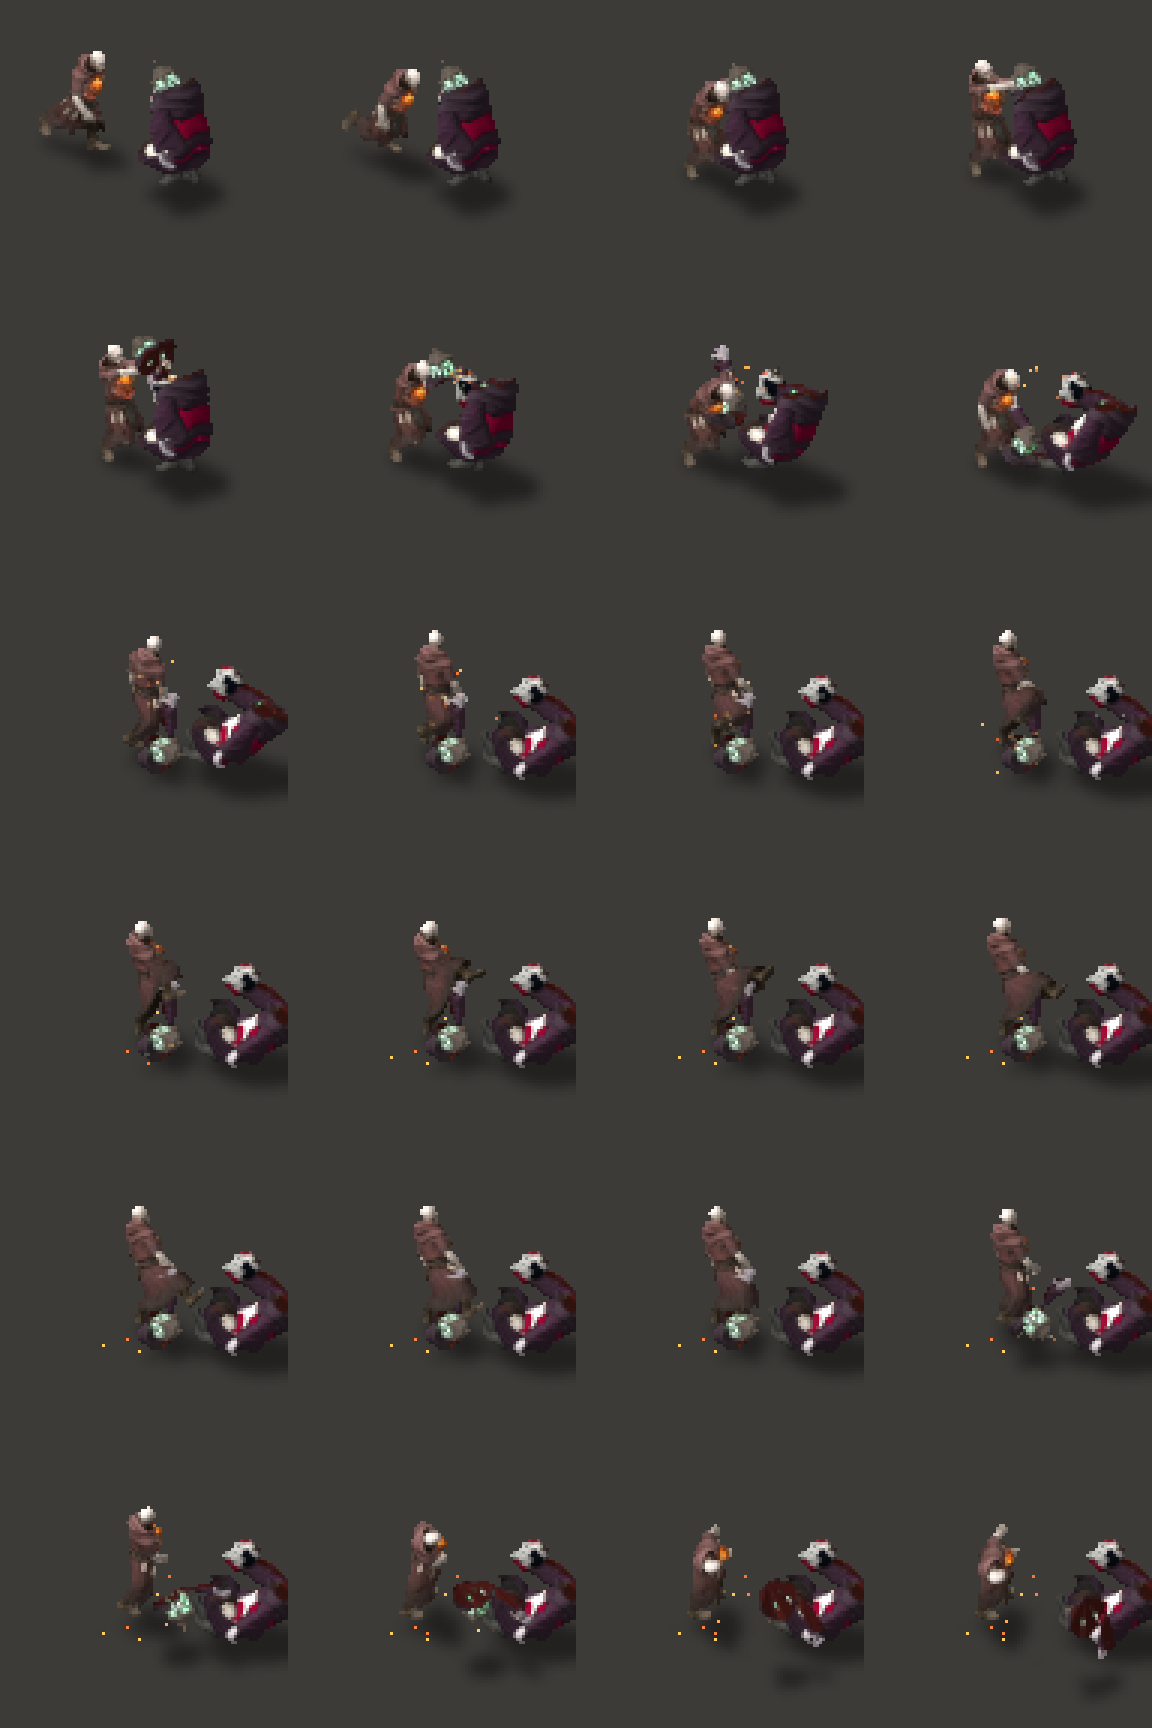
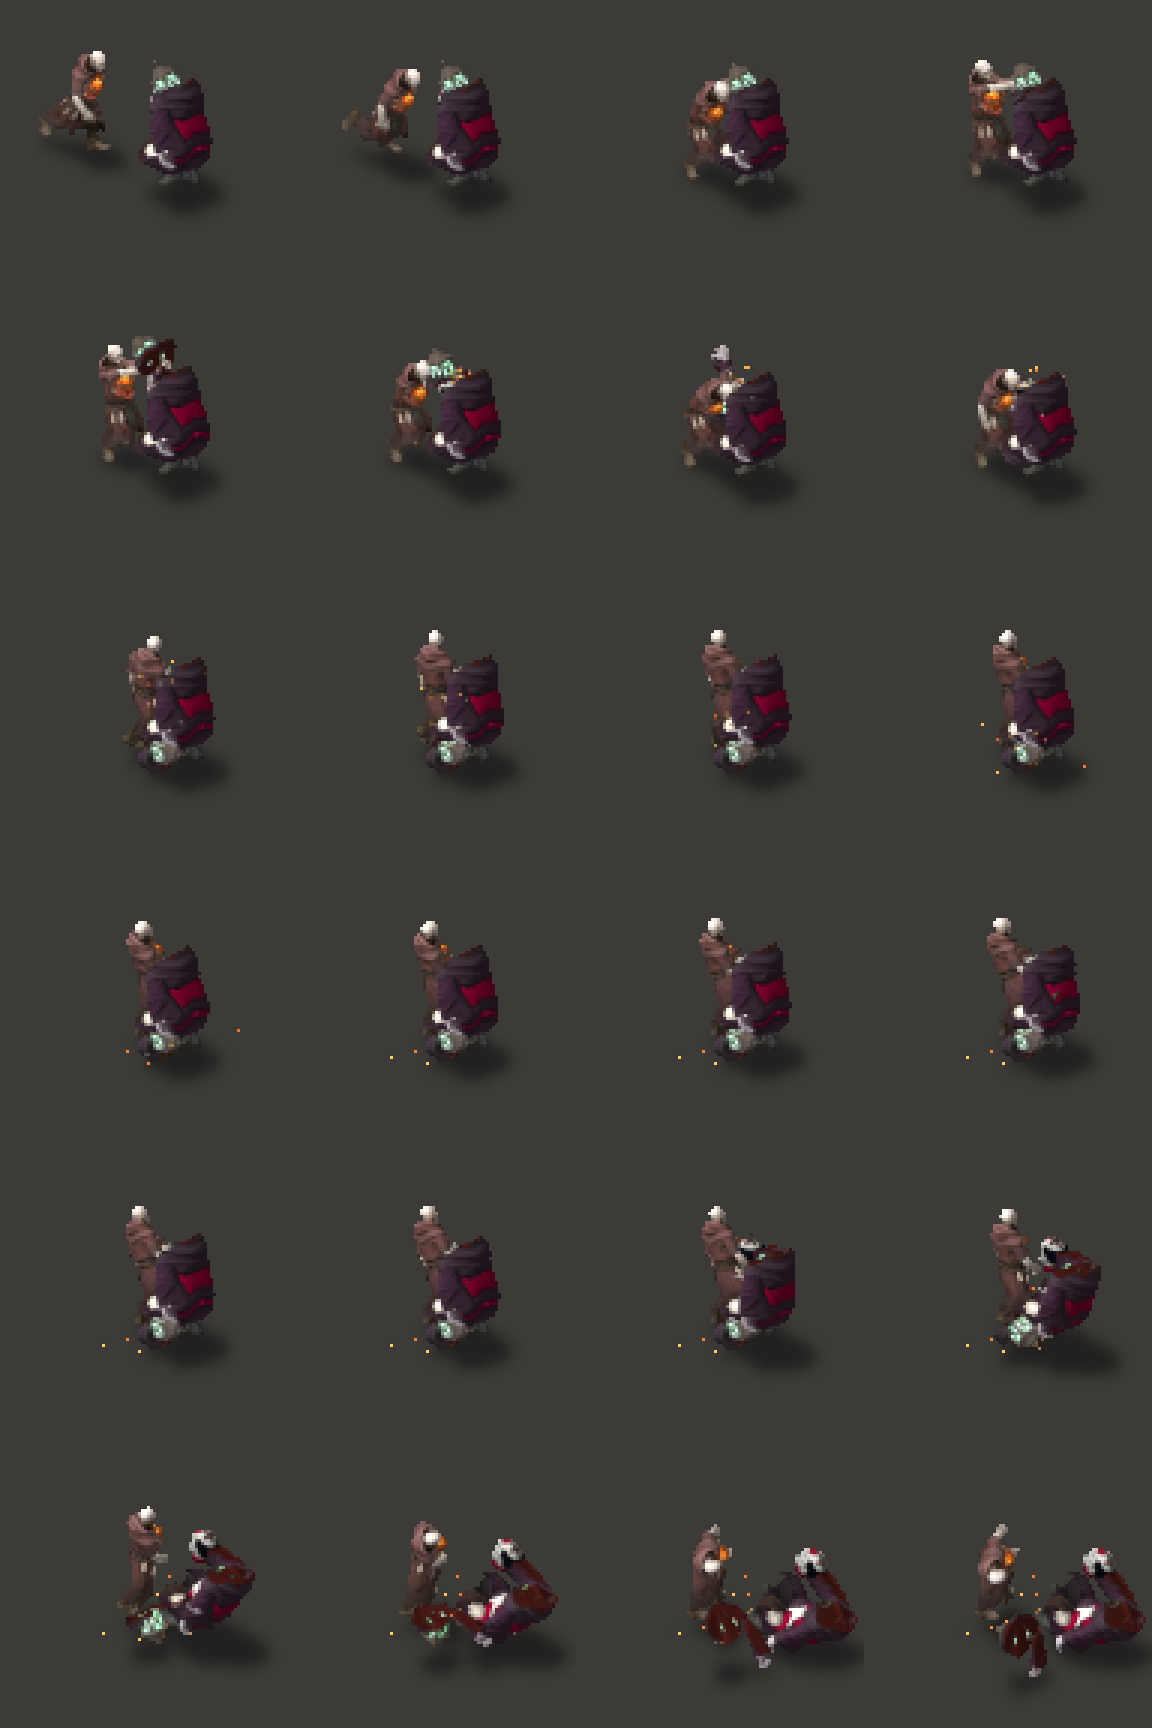
fix(remate): el Ojo aguanta de pie sin farol y cae con la patada
El cuerpo ya no se vuelca en el arranque: se queda de pie, tambaleandose, del fotograma 4 al 17, y se desploma al entrarle el pie en el 18. El farol deja de salir volando: se apoya en el suelo y la patada lo manda a ras hacia el espectador.

diff --git a/tools/characters/ds_remate_ojo.py b/tools/characters/ds_remate_ojo.py
@@ -379,7 +379,7 @@ kick_glass = burst('kickg', 6, LAND + V((0, 0, 0.08)), 2.0, 0.007, 46, MAT_GLASS
 # vuelo del farol: de la mano (fotograma RELEASE_F) al suelo (LAND_F) al punto de contacto
 C0 = LANTERN_C.copy()
 T_FLY = (LAND_F - RELEASE_F) * DT
-V_KICK = V((2.6, -0.5, 1.9))
+V_KICK = V((1.4, -1.6, 0.7))     # la patada lo manda a ras de suelo, hacia el espectador
 
 
 # farol en la mano: (centro de mundo, giro sobre Y en grados)
@@ -427,16 +427,28 @@ def lantern_matrix(i):
     return Matrix.Translation(c) @ rot @ Matrix.Translation(-C0)
 
 
+BODY_FEET = V((OJO_X, OJO_Y, 0.0))
+
+
+def body_sway(i):
+    """Cuerpo sin farol: se tambalea sobre sus pies, cada vez mas, sin caerse."""
+    s = 4.2 * math.sin(2 * math.pi * (i - (RIP_F + 1)) / 5.6)
+    f = 2.0 + 1.6 * math.sin(2 * math.pi * (i - (RIP_F + 1)) / 9.0)
+    return xform_about(BODY_FEET, s, f, 0)
+
+
 def body_matrix(i):
-    """El cuerpo del Ojo se vuelca y se arrastra lejos del farol y de la patada."""
+    """Aguanta de pie (tambaleandose) hasta que llega la patada; entonces se desploma."""
     if i < RIP_F:
         return body_xform(tilt_back=0.0, tilt_side=1.5 if i % 2 else -1.5)
     if i == RIP_F:
-        return body_xform(tilt_back=6.0, tilt_side=-4.0)
-    k = min(1.0, (i - RIP_F) / 5.0)
-    M = body_xform(tilt_back=6.0 + 62.0 * k, tilt_side=-4.0 - 26.0 * k,
-                   drag=(0.34 * k, 0.22 * k, 0.0))
-    # que no atraviese el suelo: se apoya en el punto mas bajo
+        return xform_about(BODY_FEET, 0.0, -3.0, 0.0)
+    if i < CONTACT_PREVIEW:
+        return body_sway(i)
+    # la patada lo tumba: se vuelca hacia atras y se apoya en el suelo
+    k = min(1.0, (i - CONTACT_PREVIEW + 1) / 5.0)
+    fall = xform_about(BODY_PIVOT, -10.0 * k, 76.0 * k, 0, (0.24 * k, 0.10 * k, 0.0))
+    M = fall @ body_sway(CONTACT_PREVIEW - 1)
     STUMP.matrix_world = M
     update()
     dg = bpy.context.evaluated_depsgraph_get()

diff --git a/walkthroughs/remate-ojo/walkthrough.md b/walkthroughs/remate-ojo/walkthrough.md
@@ -21,12 +21,12 @@ principal y solo se usa como dato de pose (no se copia al worktree ni se toca).
 | :--- | :--- |
 | 0–1 | El héroe entra y el Ojo, arrodillado y tambaleándose, se inclina hacia él. |
 | 2 | **Agarre:** las dos manos del héroe cierran sobre la jaula del farol. |
-| 3–4 | **Tirón y arranque:** el héroe se echa atrás y el farol se desprende del cuello; el cuerpo del Ojo se vuelca y se arrastra lejos de la patada. Chispas y vidrio del farol. |
+| 3–4 | **Tirón y arranque:** el héroe se echa atrás y el farol se desprende del cuello. **El cuerpo se queda de pie, sin cabeza**, y empieza a tambalearse. Chispas y vidrio del farol. |
 | 5–6 | El héroe lo voltea y lo lanza al suelo. |
-| 7–8 | El farol cae en el punto exacto al que va a llegar la patada. |
-| 9–17 | El héroe se coloca y sube la pierna (arranque de la patada). |
-| **18** | **Contacto:** el pie aplasta el farol; saltan chispas y vidrio. |
-| 19–23 | El farol sale volando y rodando; el héroe acompaña y queda sobre el cuerpo caído. |
+| 7–8 | El farol cae a los pies del héroe y se queda a ras de suelo. |
+| 9–17 | El Ojo se tambalea, ciego, mientras el héroe se coloca y sube la pierna (arranque de la patada). |
+| **18** | **Contacto:** el pie le entra al cuerpo y **el Ojo se desploma**; el farol sale despedido a ras de suelo, hacia el espectador. |
+| 19–23 | El Ojo cae de espaldas y queda hecho un montón; el farol se queda al pie. |
 
 ## Cómo se ha hecho
 
@@ -36,8 +36,11 @@ principal y solo se usa como dato de pose (no se copia al worktree ni se toca).
   hacía `build_ojo.py`) y aquí, en el fotograma del agarre, se **hornea la malla ya deformada y se corta** por el
   cuello con `cut_object` (corte dentado y sección rellena en rojo oscuro). Quedan tres piezas: tronco + cabeza de la
   mano, y el farol suelto.
-- **El cuerpo caído es rígido:** se vuelca sobre su propia cadera y se apoya en el suelo, con un arrastre lateral
-  para que no caiga encima del héroe ni de la patada.
+- **El cuerpo caído es rígido y aguanta hasta el golpe:** del 4 al 17 se tambalea sin farol sobre sus pies (vaivén
+  lateral de ±4° con periodo de 5,6 fotogramas, más un cabeceo lento), y solo en el 18, al entrarle el pie, se vuelca
+  hacia atrás sobre su cadera y se apoya en el suelo. Así el remate no se «gasta» antes de la patada.
+- **El farol no vuela:** se apoya en el suelo en el 8 y, cuando la patada lo roza, sale a ras (velocidad (1,4, −1,6,
+  0,7) m/s) hacia el espectador, sin arco alto.
 - **La patada es el clip del inbox, retargetizado:** se copia la **rotación en espacio de mundo** de la cadena
   cadera–columna–piernas (método de delta de `build_ojo.py`) girada +90° porque el FBX mira a −Y y el héroe a +X;
   las longitudes de hueso distintas escalan el alcance solas. Se juega a velocidad casi natural (≈2 fotogramas del
@@ -57,8 +60,8 @@ principal y solo se usa como dato de pose (no se copia al worktree ni se toca).
 ## Verificación
 
 - Comprobado a ojo, fotograma a fotograma, sobre la hoja de contacto: el agarre toca (hueco de las manos 0,000 m en el
-  fotograma 2), el farol sale del cuello, cae en el punto de la patada, el pie lo alcanza en el fotograma 18 y el
-  farol sale volando. El héroe no se sale del encuadre en ningún fotograma.
+  fotograma 2), el farol sale del cuello, el cuerpo **sigue de pie** del 4 al 17 tambaleándose, cae solo en el 18 con el
+  golpe y el farol queda a ras junto a él. El héroe no se sale del encuadre en ningún fotograma.
 - **No se ha integrado en la ROM** (`remate_sprites.c` solo conoce Exvoto y Cireneo) ni se ha medido en la DS.
   Es una ronda de diseño para aprobar el gesto.
 
